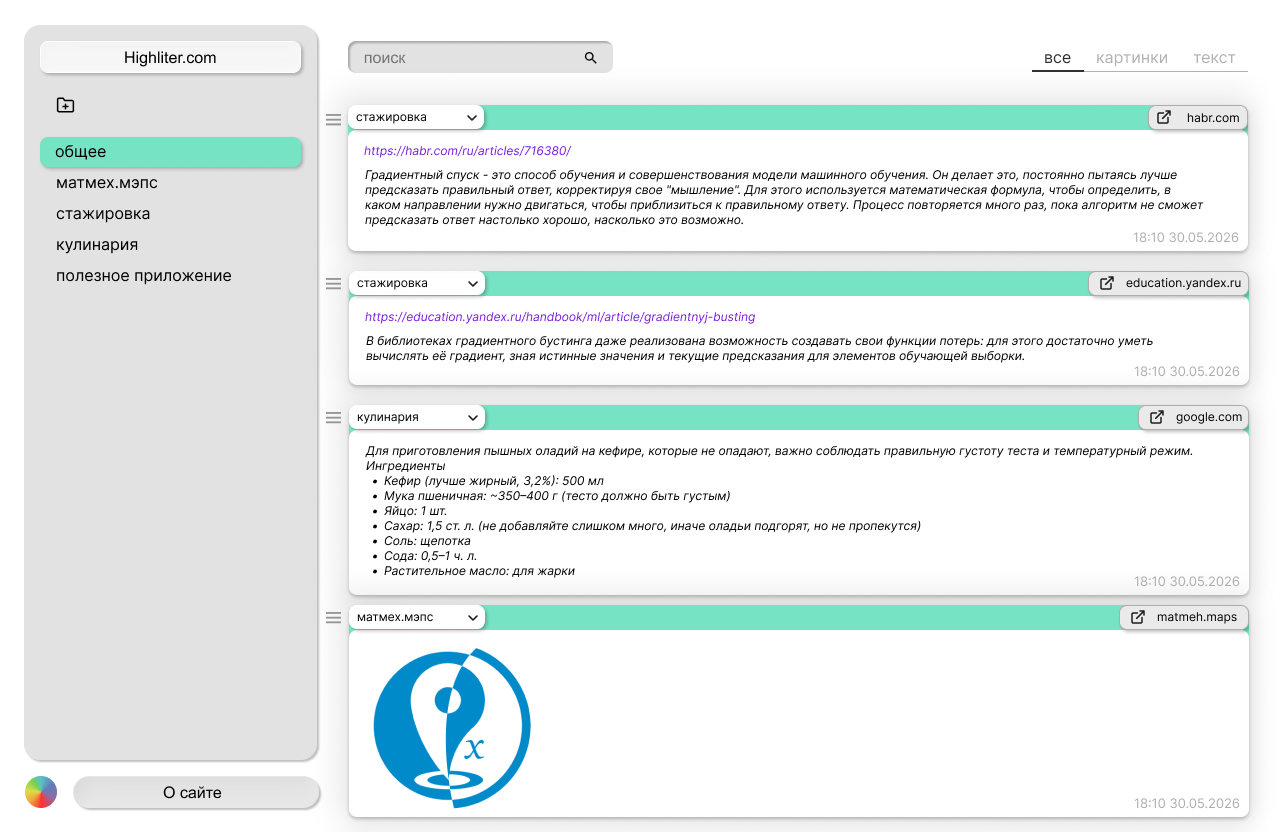
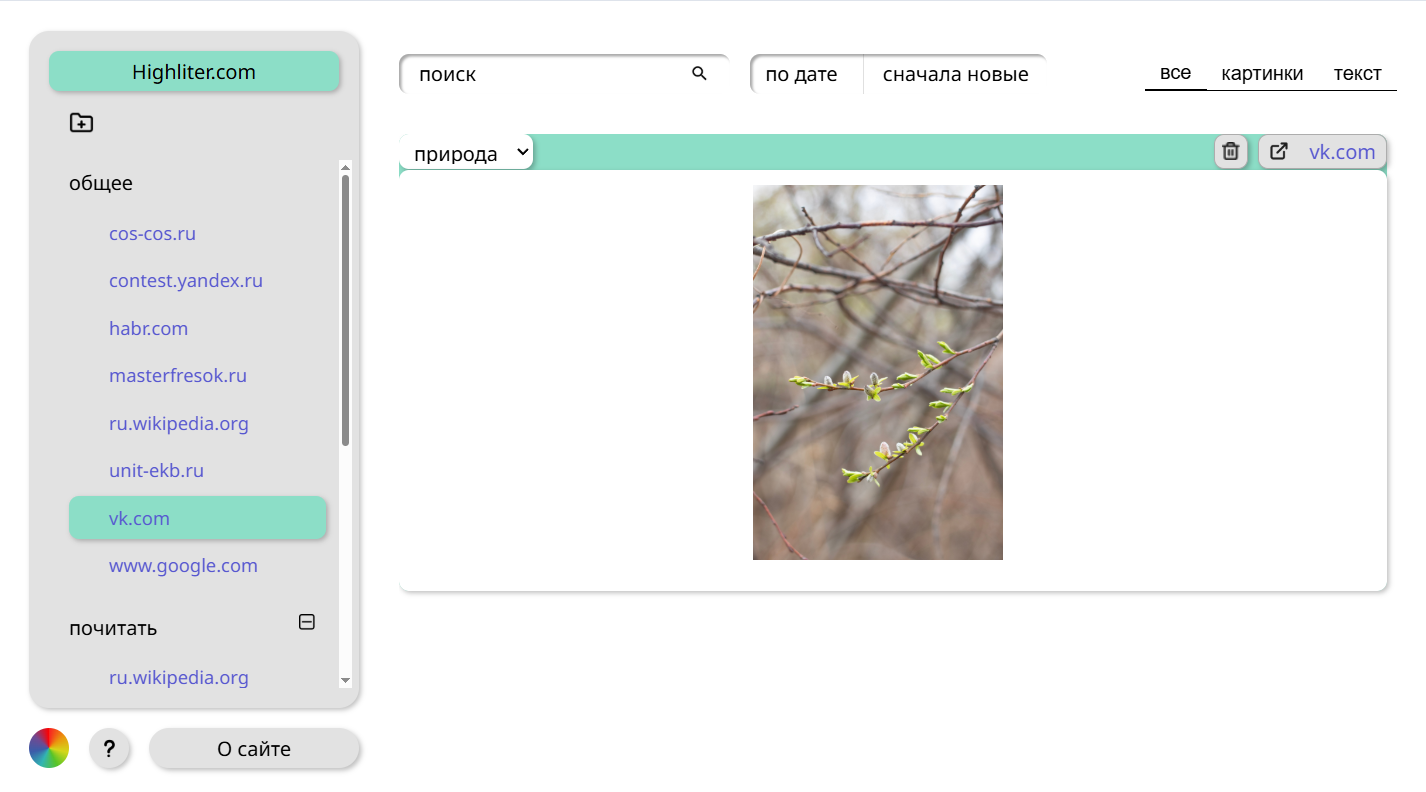
fit themes

diff --git a/front/infrastructure/js/modal.js b/front/infrastructure/js/modal.js
@@ -66,38 +66,50 @@ let colorInnerHTML = `<div class="color-container">
 // `;
 
 const themes = {
-  mint: {
-    "--background-color": "#ffffff",
-    "--notes-header-color": "#8cdec7",
-    "--second-color": "#E2E2E2",
-    "--text-color": "#000000",
-    "--card-color": "#2b2b40",
-    "--accent-color": "#8cdec7",
-  },
-  rose: {
-    "--background-color": "#ffffff",
-    "--notes-header-color": "#e4c6d0",
-    "--second-color": "#E2E2E2",
-    "--text-color": "#000000",
-    "--card-color": "#2b2b40",
-    "--accent-color": "#cac1c6",
-  },
-  sky: {
-    "--background-color": "#5980E6",
-    "--notes-header-color": "#000000",
-    "--second-color": "#8fa6e0",
-    "--text-color": "#fff700",
-    "--card-color": "#1e293b",
-    "--accent-color": "#5980E6",
-  },
-  gum: {
-    "--background-color": "#DB72B6",
-    "--notes-header-color": "#000000",
-    "--second-color": "#cd93b8",
-    "--text-color": "#fff700",
-    "--card-color": "#000000",
-    "--accent-color": "#DB72B6",
-  },
+    mint: {
+        '--background-color': '#ffffff',
+        '--notes-header-color': '#8cdec7',
+        '--second-color': '#E2E2E2',
+        '--text-color': '#000000',
+        '--card-color': '#2b2b40',
+        '--accent-color': '#8cdec7',
+        '--link-color': '#5757d0',
+        '--card-bg': '#ffffff',
+        '--card-content-bg': '#ffffff'
+    },
+    rose: {
+        '--background-color': '#ffffff',
+        '--notes-header-color': '#D5A7B6',
+        '--second-color': '#E2E2E2',
+        '--text-color': '#000000',
+        '--card-color': '#2b2b40',
+        '--accent-color': '#D5A7B6',
+        '--link-color': '#5757d0',
+        '--card-bg': '#ffffff',
+        '--card-content-bg': '#ffffff'
+    },
+    sky: {
+        '--background-color': '#415278',
+        '--notes-header-color': '#1e293b',
+        '--second-color': '#7790d1',
+        '--text-color': '#000000',
+        '--card-color': '#1e293b',
+        '--accent-color': '#415278',
+        '--link-color': '#e2d18d',
+        '--card-bg': '#7790d1',
+        '--card-content-bg': '#7790d1'
+    },
+    gum: {
+        '--background-color': '#EEE8D5',
+        '--notes-header-color': '#D3CBB7',
+        '--second-color': '#D3CBB7',
+        '--text-color': '#000000',
+        '--card-color': '#000000',
+        '--accent-color': '#EEE8D5',
+        '--link-color': '#89554D',
+        '--card-bg': '#FDF6E3',
+        '--card-content-bg': '#FDF6E3'
+    }
 };
 
 function applyTheme(themeName) {

diff --git a/front/infrastructure/styles/notes.css b/front/infrastructure/styles/notes.css
@@ -8,9 +8,10 @@
 
     --font-size: 12pt;
     --small-font-size: 8pt;
-
+    --link-color: #FFF;
     --text-color: #000000;
     --notes-text-color: #000000;
+    --card-content-bg: #ffffff;
 
     --font-main: 'Noto Sans', sans-serif;
 
@@ -64,9 +65,9 @@
 
   .startup-box {
     width: min(520px, calc(100vw - 32px));
-    background: #fff;
+    background-color: var(--second-color);
     border-radius: 16px;
-    padding: 24px;
+    padding: 16px;
     box-shadow: 0 10px 40px rgba(0, 0, 0, 0.2);
     font-family: system-ui, sans-serif;
     max-height: calc(100vh - 64px);
@@ -318,7 +319,7 @@
     border-radius: var(--second-radius);
     cursor: pointer;
     font-size: 11pt;
-    color: rgba(95, 67, 151, 0.8);
+    color: var(--link-color);
   }
 
   .sites-list li.active {
@@ -442,7 +443,7 @@
   }
 
   .search-bar-input::placeholder {
-    color: #818181;
+    color: var(--text-color);
     opacity: 1;
   }
 
@@ -612,7 +613,7 @@
     margin: 8px;
     max-width: 200px;
     overflow: hidden;
-    color: var(--notes-text-color);
+    color: var(--link-color);
     text-decoration: none;
     font-size: var(--font-size);
   }
@@ -621,7 +622,7 @@
      position: relative;
      padding: 12px 56px 25px 32px;
      border-radius: var(--second-radius);
-     background-color: #ffffff;
+     background-color: var(--card-content-bg);
      box-shadow: var(--shadow);
   }
 
